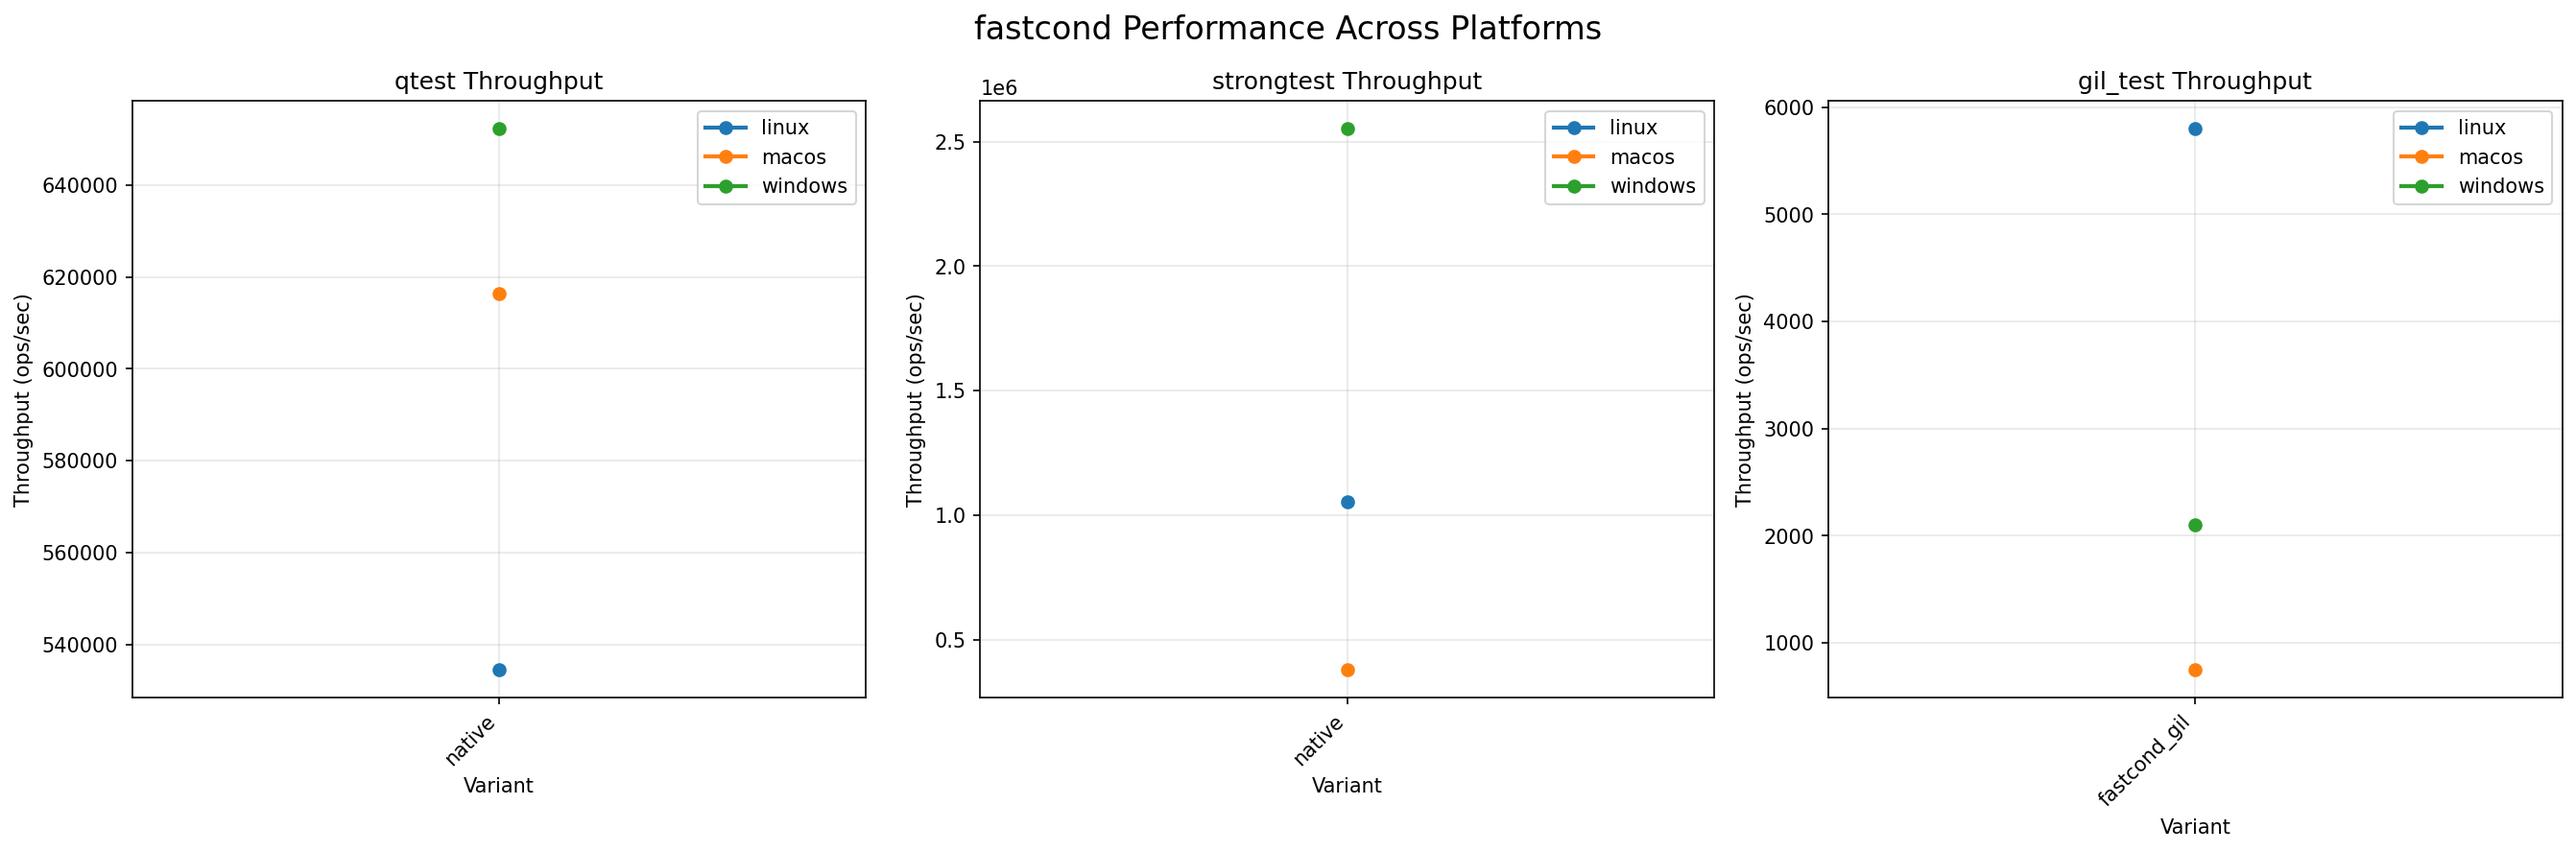
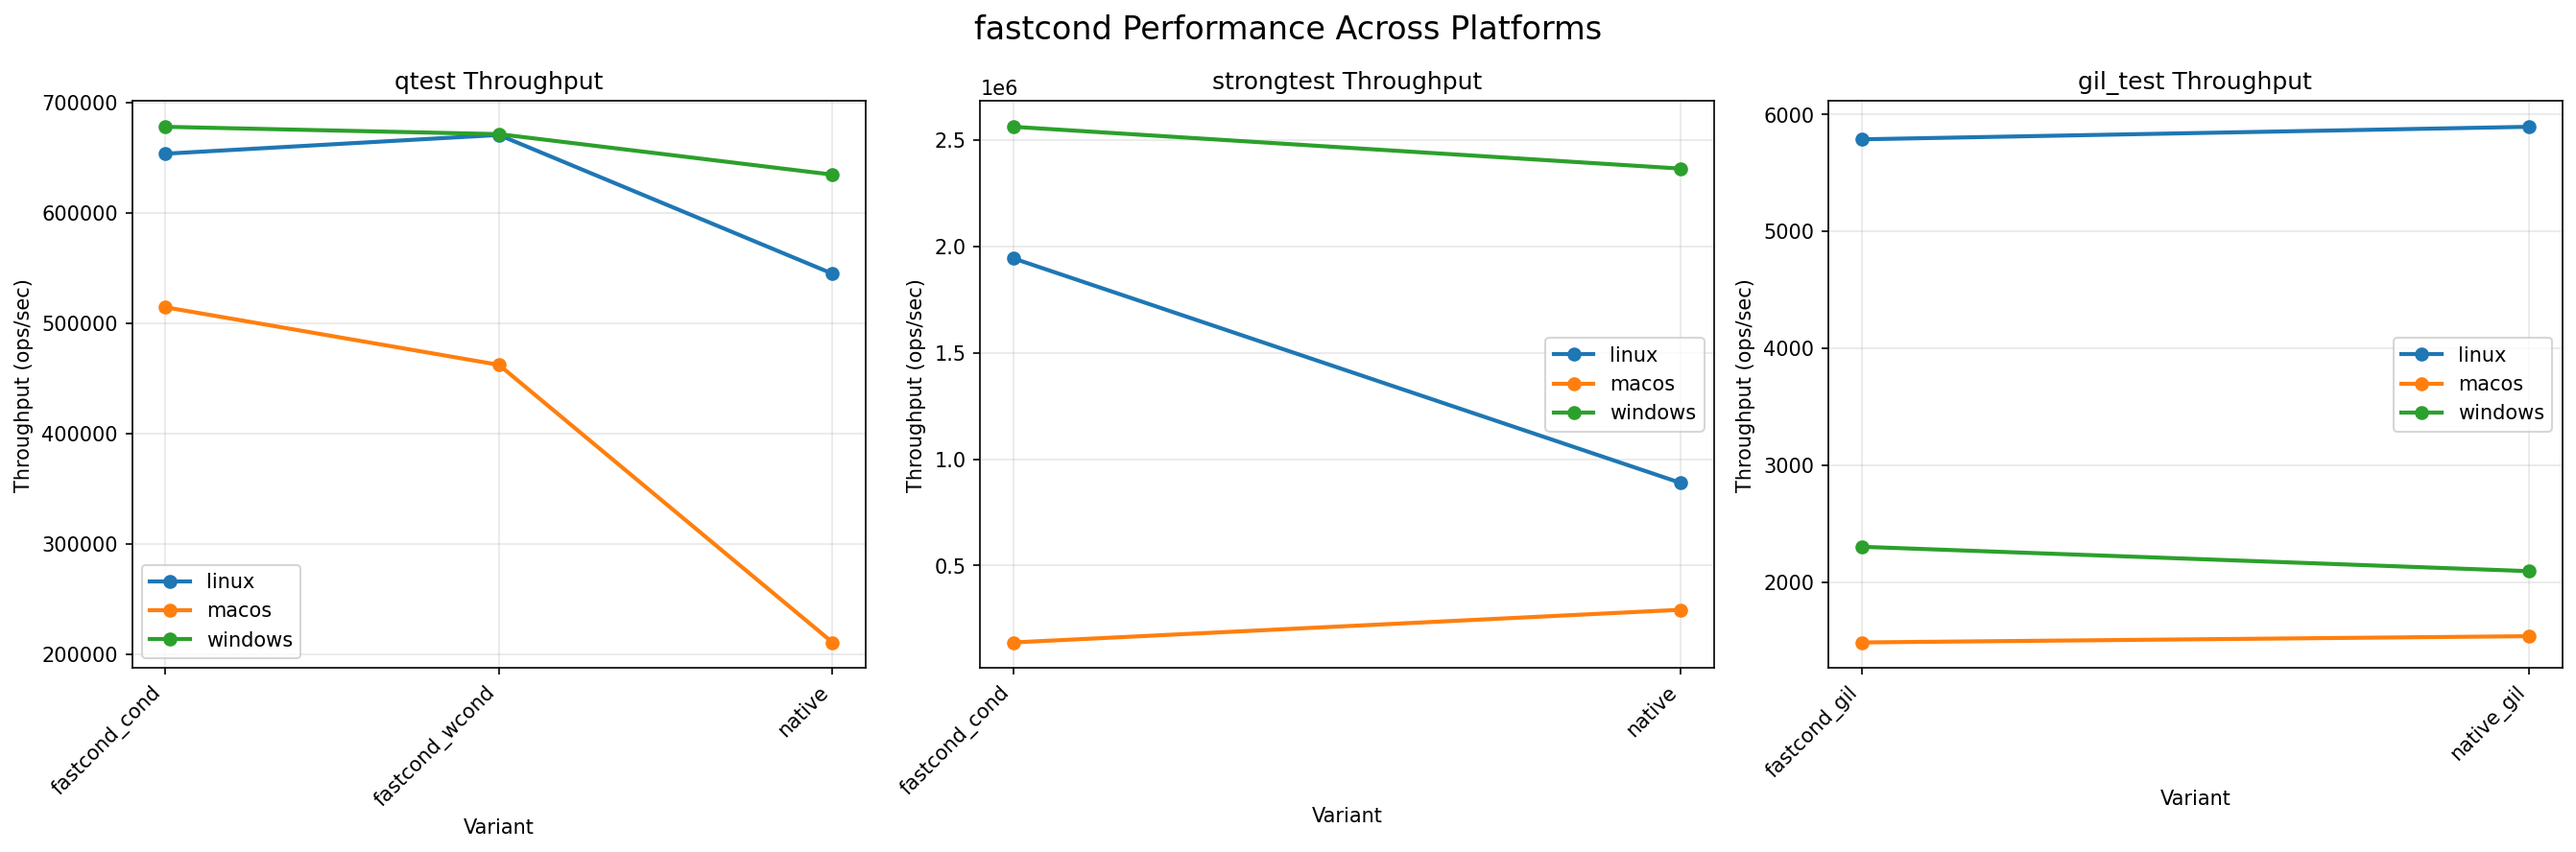
deploy: 484a783a6208bbe53078ca51a34f4436b4d7bdbf

diff --git a/performance/performance-comparison.md b/performance/performance-comparison.md
@@ -2,35 +2,35 @@
 
 | Platform | Test | Threads | Variant | Throughput (ops/sec) | Speedup vs Native |
 |----------|------|---------|---------|---------------------|-------------------|
-| linux | gil_test | 4 | fastcond_gil | 5,756 | N/A |
-| linux | gil_test | 4 | fastcond_gil | 5,739 | N/A |
-| linux | gil_test | 4 | fastcond_gil | 6,021 | N/A |
-| linux | gil_test | 4 | fastcond_gil | 5,582 | N/A |
-| linux | gil_test | 4 | fastcond_gil | 5,705 | N/A |
-| linux | gil_test | 4 | fastcond_gil | 6,025 | N/A |
-| linux | qtest | 4 | native | 401,764 | 1.00x |
-| linux | qtest | 4 | native | 795,442 | 1.98x |
-| linux | qtest | 4 | native | 497,116 | 1.24x |
-| linux | qtest | 4 | native | 453,871 | 1.13x |
-| linux | qtest | 4 | native | 489,085 | 1.22x |
-| linux | qtest | 4 | native | 569,552 | 1.42x |
-| linux | strongtest | 1 | native | 1,021,196 | 1.00x |
-| linux | strongtest | 1 | native | 612,659 | 0.60x |
-| linux | strongtest | 1 | native | 1,238,725 | 1.21x |
-| linux | strongtest | 1 | native | 1,339,329 | 1.31x |
-| macos | gil_test | 4 | fastcond_gil | 767 | N/A |
-| macos | gil_test | 4 | fastcond_gil | 728 | N/A |
-| macos | gil_test | 4 | fastcond_gil | 745 | N/A |
-| macos | qtest | 4 | native | 579,240 | 1.00x |
-| macos | qtest | 4 | native | 634,357 | 1.10x |
-| macos | qtest | 4 | native | 635,284 | 1.10x |
-| macos | strongtest | 1 | native | 401,913 | 1.00x |
-| macos | strongtest | 1 | native | 355,758 | 0.89x |
-| windows | gil_test | 4 | fastcond_gil | 2,113 | N/A |
-| windows | gil_test | 4 | fastcond_gil | 2,129 | N/A |
-| windows | gil_test | 4 | fastcond_gil | 2,058 | N/A |
-| windows | qtest | 4 | native | 694,440 | 1.00x |
-| windows | qtest | 4 | native | 694,117 | 1.00x |
-| windows | qtest | 4 | native | 568,553 | 0.82x |
-| windows | strongtest | 1 | native | 2,573,605 | 1.00x |
-| windows | strongtest | 1 | native | 2,534,790 | 0.98x |
+| linux | gil_test | 4 | fastcond_gil | 5,730 | N/A |
+| linux | gil_test | 4 | fastcond_gil | 5,845 | N/A |
+| linux | gil_test | 4 | native_gil | 5,716 | N/A |
+| linux | gil_test | 4 | native_gil | 6,002 | N/A |
+| linux | gil_test | 4 | native_gil | 5,815 | N/A |
+| linux | gil_test | 4 | native_gil | 6,046 | N/A |
+| linux | qtest | 4 | fastcond_cond | 623,504 | 1.13x |
+| linux | qtest | 4 | fastcond_cond | 684,197 | 1.24x |
+| linux | qtest | 4 | fastcond_wcond | 686,738 | 1.24x |
+| linux | qtest | 4 | fastcond_wcond | 654,913 | 1.18x |
+| linux | qtest | 4 | native | 553,533 | 1.00x |
+| linux | qtest | 4 | native | 536,575 | 0.97x |
+| linux | strongtest | 1 | fastcond_cond | 1,392,247 | 1.09x |
+| linux | strongtest | 1 | fastcond_cond | 2,495,701 | 1.96x |
+| linux | strongtest | 1 | native | 1,273,628 | 1.00x |
+| linux | strongtest | 1 | native | 503,117 | 0.40x |
+| macos | gil_test | 4 | fastcond_gil | 1,485 | N/A |
+| macos | gil_test | 4 | native_gil | 1,699 | N/A |
+| macos | gil_test | 4 | native_gil | 1,378 | N/A |
+| macos | qtest | 4 | fastcond_cond | 514,642 | 2.44x |
+| macos | qtest | 4 | fastcond_wcond | 462,449 | 2.19x |
+| macos | qtest | 4 | native | 210,846 | 1.00x |
+| macos | strongtest | 1 | fastcond_cond | 138,314 | 0.47x |
+| macos | strongtest | 1 | native | 291,877 | 1.00x |
+| windows | gil_test | 4 | fastcond_gil | 2,303 | N/A |
+| windows | gil_test | 4 | native_gil | 1,993 | N/A |
+| windows | gil_test | 4 | native_gil | 2,196 | N/A |
+| windows | qtest | 4 | fastcond_cond | 678,224 | 1.07x |
+| windows | qtest | 4 | fastcond_wcond | 671,578 | 1.06x |
+| windows | qtest | 4 | native | 634,860 | 1.00x |
+| windows | strongtest | 1 | fastcond_cond | 2,562,985 | 1.08x |
+| windows | strongtest | 1 | native | 2,366,416 | 1.00x |
